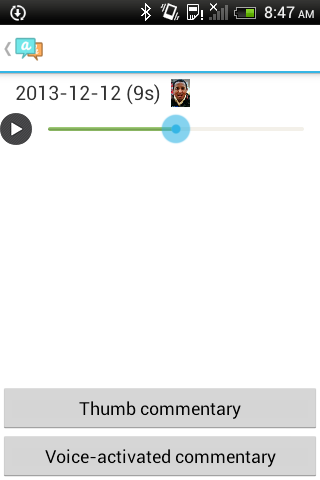
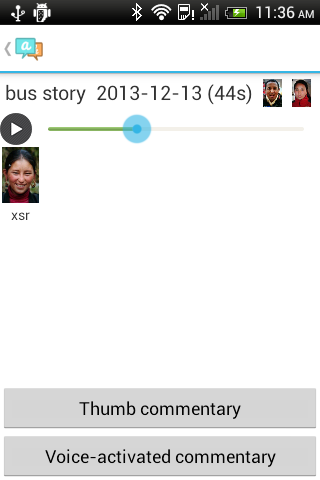
Added section on playing back commentary and others
* Added section on playing back commentary tracks
* Added images to this section
* Added small amounts of clarification to other sections
* General tweaks and edits

diff --git a/aikuma/howto.md b/aikuma/howto.md
@@ -79,11 +79,13 @@ To go back to the [Main screen][Main Screen] at any time press the Aikuma logo i
 
 Playback
 ---------
-
-When you select a recording from the list on the Main screen you will be taken to this playback screen. It contains the recording date, duration and any speakers from the recording. Pressing the play button will start the recording, and pressing the same button again will pause it, you can drag the blue dot anywhere along the timeline to skip to another part of the recording. You can turn the volume up or down using your mobile phone volume control (most often located on the side of the phone). 
+###Original recording###
+When you select an original recording from the list on the Main screen you will be taken to this playback screen. It contains the recording date, duration and any speakers from the recording. Pressing the play button will start the recording, and pressing the same button again will pause it, you can drag the blue dot anywhere along the timeline to skip to another part of the recording. You can turn the volume up or down using your mobile phone volume control (most often located on the side of the phone). 
 
 ![Listening to recording](/images/HowTo/ListenfromList.png)
 <p class="clear"/>
+
+If there are other images below the timeline as in the image above this means that there are commentaries on this original recording. You can listen to these by clicking on the picture. You can also access these commentaries via the main menu. Listening to commentaries is discussed in more detail [below][Play Commentary].
 
 ###Adding a Commentary###
 As well as listening to the recording you can choose to add a commentary. This could be involve respeaking the recording slower and more clearly, or to translating the recording into another language that you speak. You could also give additional information about the content of the recording. These recordings are useful for helping share you language with members of your community, or with other communities. 
@@ -117,6 +119,17 @@ At the bottom of the screen is the voice sensitivity slider. When you start usin
 Now you can begin to make your recording. Hold the phone up to your ear and listen to the recording. At a convenient break start your translation, respeaking or commentary. The phone will recognise your voice input, stop the original recording and record your voice. When you stop talking the recording will go back a second or two and continue. Do this until the end of the recording, then press the save button. 
 
 The process for adding information about the saved recording is [the same as discussed above][Save a recording] for an original recording. Your recording will now appear in the list of recordings on the [Main screen][Main Screen].
+
+###Play Commentary###
+You can select a commentary to play from the recording list on the [Main screen][Main Screen] or by selecting it in the playback screen for the original recording. 
+Playing back a commentary will include playing back the segments of the original recording and the commentary. 
+
+![Commentary playback](/images/HowTo/CommentaryPlayback.png)
+<p class="clear"/>
+
+The playback screen for the commentary looks very similar to that for the original recording, but you will notice red lines on the timeline. These are the points in the original recording that the comments were made. The original recording will play, and the blue dot will move along the timeline. When the blue dot gets to a red line that section of commentary will play. The next segment of the original recording will then follow, until the end of the recording. For some commentary recordings the timeline will only appear when the phone is held sideways.
+
+The images of the people in the original recording are at the top of the screen, and the image of the person doing the commentary is below the timeline, outlined in red. If there is more than one commentary recorded the one you are listening to is circled red. You can move to another commentary by clicking on the other image(s). You can return to the original recording through the main screen.
 
 To go back to the [Main screen][Main Screen] at any time press the Aikuma logo in the top left-hand corner of the screen. If you are in the middle of a recording it will ask you if you want to discard it. If you do, press 'Discard', if you don't press 'Cancel' and save the recording before exiting. 
 
